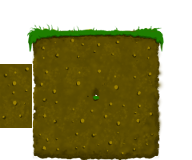
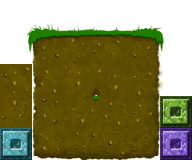
floating animation frame, added more tiles to tileset

Changed region(s): [[0.8125, 0.5938, 1.0, 1.0], [0.0, 0.7812, 0.1875, 1.0]]

diff --git a/src/states/gameState.js b/src/states/gameState.js
@@ -77,6 +77,7 @@ counterBackground.scale.y = 0.5;
 
     sprite.animations.add('walk', [0, 1, 2, 3, 4, 5, 6, 7, 8, 9, 10, 11, 12, 13, 14, 15, 16, 17, 18, 19, 20, 21, 22, 23, 24, 25, 26, 27, 28, 29, 30, 31, 32, 33, 34, 35, 36]);
     sprite.animations.add('stand', [6]);
+    sprite.animations.add('float', [39]);
 
     sprite.animations.play('walk', 60, true);
 
@@ -138,11 +139,11 @@ if(sprite.body.velocity.y > 500) {sprite.body.velocity.y = 600;}
 
     counter.crop(rectangle);
     if(Math.random() > 0.5) {
-        charge += 0.2;
+        modifyCharge(0.2);
     } else {
-        charge -= 0.2;
+        modifyCharge(-0.2);
     }
-    if(charge > 70) {abilityTrigger(); charge = charge - 70;}
+    if(charge > 70) {abilityTrigger(); modifyCharge(0, true);}
     if(charge < 0) {charge = 0;}
 
     if (!mutePushed && controls.mute.isDown) {
@@ -180,10 +181,10 @@ if(sprite.body.velocity.y > 500) {sprite.body.velocity.y = 600;}
         sprite.body.drag.x = 370;
     }
     if (sprite.running) {
-        charge += Math.random() * 0.5;
+        modifyCharge(Math.random() * 0.5);
     }
 
-    charge = charge + (Math.abs(sprite.body.velocity.x)/500);
+    modifyCharge(Math.abs(sprite.body.velocity.x)/500);
     var moving = false;
     if (controls.left.isDown) {
         moving = true;
@@ -210,13 +211,13 @@ if(sprite.body.velocity.y > 500) {sprite.body.velocity.y = 600;}
         }
     }
     if (!moving && !Math.abs(sprite.body.velocity.y)) {
-        charge -= 0.1;
-        if (sprite.animations.currentAnim.name !== 'stand') {
+        modifyCharge(-0.1);
+        if (!iAmHovering && sprite.animations.currentAnim.name !== 'stand') {
             sprite.animations.play('stand');
         }
     } else {
-if(Math.abs(sprite.body.velocity.y) > 100){charge += 0.4;}
-        if (sprite.animations.currentAnim.name !== 'walk') {
+    if(Math.abs(sprite.body.velocity.y) > 100){modifyCharge(0.4);}
+        if (!iAmHovering && sprite.animations.currentAnim.name !== 'walk') {
             sprite.animations.play('walk', 60, true);
         }
     }
@@ -230,7 +231,7 @@ if(Math.abs(sprite.body.velocity.y) > 100){charge += 0.4;}
        puker++;
     }
     else if (controls.jump.isDown && sprite.body.velocity.y < -300){
-        charge += 0.5;
+        modifyCharge(0.5);
         sprite.body.velocity.y -= 20;
     }
     //if(puker % 4 == 0){
@@ -357,10 +358,12 @@ function puke(){
         bullet.animations.add('squidGrow', [1, 2]);
         game.time.events.add(300, function() {this.animations.play('squidGrow', 15, true)}, bullet);
         game.time.events.add(5000, bulletDeath, bullet);
-    }
+}
+
 function hover() {
     if (iAmHovering) {
     } else {
+        sprite.animations.play('float', 10, false);
         iAmHovering = true;
         sprite.body.gravity.y = 0;
         sprite.body.velocity.y = 0;
@@ -433,6 +436,16 @@ function populateBaddies(){
     createBaddy(3500, 800);
 }
 
+function modifyCharge(value, abs) {
+    if (sprite.alive) {
+        if (abs !== true) {
+            charge += value;
+        } else {
+            charge = value;
+        }
+    }
+}
+
 function baddyColide(){
 if(sprite.body.x > 800) {this.body.velocity.x = -400;}
     if(game.physics.arcade.collide(this, sprite)){gameOver();}
@@ -444,7 +457,7 @@ baddies[a].animations.play('hurt', 1, true);
 game.time.events.add(500, function(){baddyAnim(a);});
 baddies[a].health--;
 if(baddies[a].health <= 0){
-  charge = charge + 100;
+  modifyCharge(100);
 baddies[a].kill();}
 }
 function baddyAnim(a){
